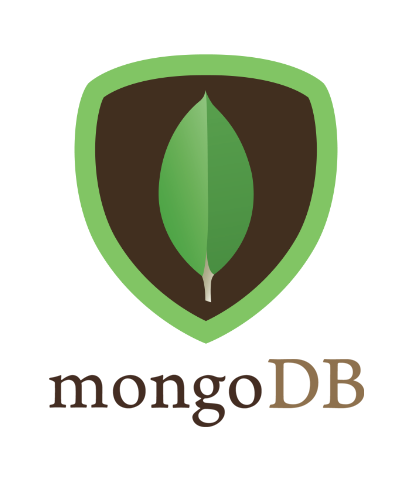
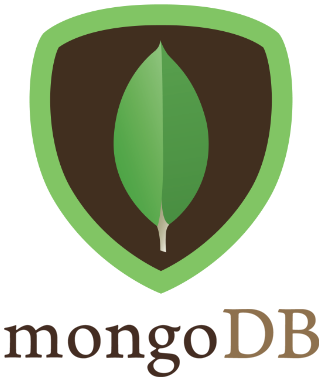
Add message alert

diff --git a/index.html b/index.html
@@ -48,7 +48,7 @@
                         <a class="nav-link" href="#education">Education</a>
                     </li>
                     <li class="nav-item">
-                        <a class="nav-link" href="#certifications">Certifications</a>
+                        <a class="nav-link"  href="#certifications">Certifications </a>
                     </li>
                     <li class="nav-item">
                         <a class="nav-link" href="#connect">Connect</a>
@@ -62,18 +62,18 @@
     <header>
 
         <div class="wave">
-            <div class="container header-container"><br>
+            <div class="container header-container"><br><br><br>
                 <h1 class="name">Lydia Delgado Uriarte</h1>
                 
             <h3 class="mb-0">
                 Web Developer - Data Analyst - Software Developer
-            </h3><br><br><br>
+            </h3><br><br><br><br><br><br>
                <!--<h3 class="subtitle text-center">Building beautiful applications that just work.</h3>--> 
                 <!-- <img src="assets/images/student.png" class="boy" alt="boy image" /> -->
             </div>
         </div>
         <div class="wave-svg">
-            <svg xmlns="http://www.w3.org/2000/svg" fill="#fff" opacity="1" width="100%" height="80"
+            <svg xmlns="http://www.w3.org/2000/svg" fill="#fff" opacity="1" width="100%" height="90"
                 preserveAspectRatio="none" viewBox="0 0 1600 200" margin="0">
                 <path d="M-8,95.3C-8,95.3,189,2,398,2s604,184.7,800,184.7s412-91.4,412-91.4V271H-8V95.3z" />
                 <path
@@ -89,7 +89,7 @@
             web
             applications
             built on
-            JavaScript technologies. </h3><br>
+            JavaScript technologies, software developme </h3><br>
     </section>
 
     
@@ -154,6 +154,7 @@
                             <img src="assets/images/portfolio/googlemapsapi.png" width="100px" height="100px" >
                             <p>Google Maps API</p>
                         </div>
+                        <br>
                     </div>
                     <div class="col">
                         <div class="skill-bar-title">
@@ -163,16 +164,17 @@
                     </div>
                     <div class="col">
                         <div class="skill-bar-title">
-                            <img src="assets/images/portfolio/aws.png" width="120px" height="90px" >
-                            <p>Amazon Web Services</p>
-                        </div>
-                    </div>
-                    <div class="col">
-                        <div class="skill-bar-title">
                             <img src="assets/images/portfolio/flask.jpg" width="100px" height="100px" >
                             <p>Flask</p>
                         </div>
                         
+                    </div>
+                    <div class="col">
+                        <div class="skill-bar-title">
+                    
+                            <img src="assets/images/portfolio/kotlin.png" width="120px" height="100px" class="responsive" >
+                            
+                        </div>
                     </div>
                 </div>
             </div>
@@ -184,33 +186,38 @@
                 <div class="row text-center">
                     <div class="col">
                         <div class="skill-bar-title">
-                            <img src="assets/images/portfolio/pandas.png" width="130px" height="90px" >
-                            
+                            <img src="assets/images/portfolio/pandas.png" width="120px" height="90px" class="responsive">
+                            <br>
                         </div>
                     </div>
                 
                     <div class="col">
                         <div class="skill-bar-title">
-                            <img src="assets/images/portfolio/mongodb.png" width="60%" height="60%" >
-                            
+                            <img src="assets/images/portfolio/mongodb.png" width="100px" height="100px" class="responsive">
+                            <br>
                         </div>
+                        <br>
+                        <br>
                     </div>
                         
                     <div class="col">
                         <div class="skill-bar-title">
                             <img src="assets/images/portfolio/R.jpeg" width="85px" height="85px" >
+                            <br>
                         </div>
                     </div>
                     <div class="col">
                         <div class="skill-bar-title"><br>
                             <i class="fab fa-git fa-4x"></i>
+                            <br>
+                            <br>
                         </div>
                         
                     </div>
                     <div class="col">
                         <div class="skill-bar-title">
-                            <br>
-                            <img src="assets/images/portfolio/Mysql.png" width="100%" height="100%" >
+                            
+                            <img src="assets/images/portfolio/Mysql.png" width="120px" height="90px" class="responsive">
                         </div>
                         
                     </div>
@@ -239,8 +246,9 @@
                 <img src="assets/images/myself.jpg" alt="Italian Trulli" class="myself" width="80%" height="80%">
 
                 <h3 class="card-title">More about Me</h3>
-                <p class="card-text"> Data Analyst with eager of experience interested to acquire knowledge through
-                    different technologies and retrieve data prominent information with recommended tools such as Python,
+                <p class="card-text"> Data Analyst with eager of experience interested to acquire knowledge in new technologies and
+                    be capable of being an expert in the ones I use.
+                    Retrieve prominent data and software development with recommended tools such as Python,
                     Tableau, MySQL, Pandas, etc. Equipped with various tech skills with
                     a completed certificate in Data Analytics and Visualizations Bootcamp from Tecnologico de Monterrey. </p>
             
@@ -350,91 +358,114 @@
 <br><br><br>
                 </div>
             </div>
+        <div id="education"></div>
         </div>
     </div>
 
 
     <!-- EDUCATION -->
         
-    <div id="education"></div>
-    <section class="container education-container">
+    <section class="container">
         
         <h1 class="title">Education </h1>
+        <a href="https://drive.google.com/file/d/1LqIPOTHvaPAzXEaiFd1CcYCCcOZNvi6z/view?usp=sharing" target="_blank" >
         <article class="education-item">
-            <h3 class="subtitle">Instituto Tecnologico de Estudios Superiores de Monterrey &nbsp;&nbsp;&nbsp;&nbsp;<a href="https://drive.google.com/file/d/1LqIPOTHvaPAzXEaiFd1CcYCCcOZNvi6z/view?usp=sharing" target="_blank" >
-                <img src="assets/images/portfolio/tec_mty.jpg" height="20%" width="20%"></a></h3> 
+            <h3 class="subtitle">Instituto Tecnologico de Estudios Superiores de Monterrey &nbsp;&nbsp;&nbsp;&nbsp;
+                <img src="assets/images/portfolio/tec_mty.jpg" height="25%" width="25%" class="responsive"></h3> 
             <span class="text-muted">B.S in Computer Science and Technology | Aug 2020 - Present </span>
-        </article>
+        </article></a>
+
         <hr />
+        <a href="https://drive.google.com/file/d/1vF6PZ9jwpckFZaa9s7vGvh5O8PKYAVQv/view" target="_blank" >
         <article class="education-item">
-            <h3 class="subtitle"> Instituto Tecnologico de Estudios Superiores de Monterrey &nbsp;&nbsp;&nbsp;&nbsp;<a href="https://drive.google.com/file/d/1vF6PZ9jwpckFZaa9s7vGvh5O8PKYAVQv/view" target="_blank" >
-                <img src="assets/images/portfolio/tec_mty.jpg" height="20%" width="20%"></a></h3> 
-            <span class="text-muted">Highschool  | Aug 2020 - Present </span>
-            <div id="certifications"></div>
-        </article>
+            <h3 class="subtitle"> Instituto Tecnologico de Estudios Superiores de Monterrey &nbsp;&nbsp;
+                <img src="assets/images/portfolio/tec_mty.jpg" height="25%" width="25%" class="responsive"></h3> 
+            <div id="certifications"></div><span class="text-muted">Highschool  | Aug 2020 - Present <br><br><br><br></span>
+        
+        </article></a>
 
     </section>
 
     <!-- CERTIFICATIONS -->
-    <div id="certifications"></div>
+    
     <section class="container">
-        <h1 class="title">Certifications </h1>
+        <h1 class="title">Certifications &nbsp; &nbsp;<span onclick="myalert()" style="font-size: 30px; cursor: pointer;">&#9432;</span></h1>
+    
+
+        <a href="https://www.credential.net/d81e359b-5599-4803-91f4-12b5c8523c34#gs.7seg2z" target="_blank" >
         <article class="education-item">
-            <h3 class="subtitle">Data Analytics and Visualization Bootcamp  &nbsp;&nbsp;&nbsp;&nbsp; &nbsp;<a href="https://www.credential.net/d81e359b-5599-4803-91f4-12b5c8523c34#gs.7seg2z" target="_blank" >
-                <img src="assets/images/portfolio/tec_mty.jpg" height="20%" width="20%"></a></h3> 
+            <h3 class="subtitle">Data Analytics and Visualization Bootcamp  &nbsp;&nbsp;&nbsp;&nbsp; &nbsp;
+                <img src="assets/images/portfolio/tec_mty.jpg" height="25%" width="25%" class="responsive"></h3> 
             <span class="text-muted">24-week Bootcamp from Tecnológico de Monterrey | Dec 2021 - Jun 2022 </span>
-        </article>
+        </article></a>
+
         <hr />
         
+        <a href="https://verify.skilljar.com/c/dn8ipttubcci" target="_blank" >
         <article class="education-item">
-            <h3 class="subtitle">Data Science with Tableau&nbsp; &nbsp;<a href="https://verify.skilljar.com/c/dn8ipttubcci" target="_blank" >
-                <img src="assets/images/portfolio/tabl.png" height="20%" width="20%"></a></h3> 
+            <h3 class="subtitle">Data Science with Tableau&nbsp; &nbsp;
+                <img src="assets/images/portfolio/tabl.png" height="40px" width="180px" class="responsive"></h3> 
             <span class="text-muted"> Sep 2021 </span>
-        </article>
+        </article></a>
+        
         <hr />
         
+        <a href="https://verify.skilljar.com/c/ruoq7tbs5gej" target="_blank" >
         <article class="education-item">
-            <h3 class="subtitle">Build Visualizations and Dashboards&nbsp; &nbsp;<a href="https://verify.skilljar.com/c/ruoq7tbs5gej" target="_blank" >
-                <img src="assets/images/portfolio/tabl.png" height="20%" width="20%"></a></h3> 
+            <h3 class="subtitle">Build Visualizations and Dashboards&nbsp; &nbsp;
+                <img src="assets/images/portfolio/tabl.png" height="40px" width="180px" class="responsive"></h3> 
             <span class="text-muted"> Sep 2021 </span>
-        </article>
+        </article></a>
+
         <hr />
+
+        <a href="https://verify.skilljar.com/c/yuiigf22h4hq" target="_blank" >
         <article class="education-item">
-            <h3 class="subtitle">Exploring Developer Resources&nbsp; &nbsp;<a href="https://verify.skilljar.com/c/yuiigf22h4hq" target="_blank" >
-                <img src="assets/images/portfolio/tabl.png" height="20%" width="20%"></a></h3> 
+            <h3 class="subtitle">Exploring Developer Resources&nbsp; &nbsp;
+                <img src="assets/images/portfolio/tabl.png" height="40px" width="180px" class="responsive"></h3> 
             <span class="text-muted"> Sep 2021 </span>
-        </article>
+        </article></a>
+        
         <hr />
+
+        <a href="https://verify.skilljar.com/c/98xg7t5efshd" target="_blank" >
         <article class="education-item">
-            <h3 class="subtitle">Tableau Prep Builder &nbsp;<a href="https://verify.skilljar.com/c/98xg7t5efshd" target="_blank" >
-                <img src="assets/images/portfolio/tabl.png" height="20%" width="20%"></a></h3> 
+            <h3 class="subtitle">Tableau Prep Builder &nbsp;
+                <img src="assets/images/portfolio/tabl.png" height="40px" width="180px" class="responsive"></h3> 
             <span class="text-muted"> Sep 2021 </span>
-        </article>
+        </article></a>
+
         <hr />
+        <a href="https://verify.skilljar.com/c/j4q5bg5ab3j6" target="_blank" >
         <article class="education-item">
-            <h3 class="subtitle">Tableau Desktop III: Advanced Level &nbsp; &nbsp;<a href="https://verify.skilljar.com/c/j4q5bg5ab3j6" target="_blank" >
-                <img src="assets/images/portfolio/tabl.png" height="20%" width="20%"></a></h3> 
+            <h3 class="subtitle">Tableau Desktop III: Advanced Level &nbsp;
+                <img src="assets/images/portfolio/tabl.png" height="40px" width="180px" class="responsive"></h3> 
             <span class="text-muted"> Sep 2021 </span>
-        </article>
+        </article></a>
+
         <hr />
+        <a href="https://verify.skilljar.com/c/fwxg5hg45phe" target="_blank" >
         <article class="education-item">
-            <h3 class="subtitle" >Tableau Desktop II: Intermediate Level&nbsp; &nbsp;<a href="https://verify.skilljar.com/c/fwxg5hg45phe" target="_blank" >
-                <img src="assets/images/portfolio/tabl.png" height="20%" width="20%"></a></h3> 
+            <h3 class="subtitle" >Tableau Desktop II: Intermediate Level&nbsp; &nbsp;
+                <img src="assets/images/portfolio/tabl.png" height="40px" width="180px" class="responsive"></h3> 
             <span class="text-muted"> Sep 2021 </span>
-        </article>
+        </article></a>
+
         <hr />
+        <a href="https://verify.skilljar.com/c/d57ndkug66u9" target="_blank" >
         <article class="education-item">
-            <h3 class="subtitle">Tableau Desktop I: Basic Aspects &nbsp; &nbsp;<a href="https://verify.skilljar.com/c/d57ndkug66u9" target="_blank" >
-                <img src="assets/images/portfolio/tabl.png" height="20%" width="20%"></a></h3> 
+            <h3 class="subtitle">Tableau Desktop I: Basic Aspects &nbsp; &nbsp;
+                <img src="assets/images/portfolio/tabl.png" height="40px" width="180px" class="responsive"></h3> 
             <span class="text-muted"> Aug 2021 </span>
-        </article>
+        </article></a>
         <hr/>
-        
+
+        <a href="https://drive.google.com/file/d/1n01eIxS19NOeL616vPDqZwrnP_KUUkFk/view?usp=sharing" target="_blank" >
         <article class="education-item">
                 <div class="row">
                     <div class="col-5">
                         <h3 class="subtitle">Basic Concepts of Computer Science &nbsp; &nbsp;
-                            <a href="https://drive.google.com/file/d/1n01eIxS19NOeL616vPDqZwrnP_KUUkFk/view?usp=sharing" target="_blank" ></h3> 
+                           </h3> 
                         <span class="text-muted"> Jun 2020 - Jul 2020</span> 
                     </div>
                     <div class="col">
@@ -442,14 +473,14 @@
                             
                         </div>
                         <div class="row">
-                            <img src="assets/images/portfolio/code.png" height="80%" width="30%"></a>
+                            <img src="assets/images/portfolio/code.png" height="100px" width="100px" class="responsive">
                         </div>
                     </div>
                     <div class="col">
                         
                     </div>
                 </div>
-        </article>
+        </article></a>
     </section>
 
     <!-- AVAILABLE FOR WORK -->

diff --git a/assets/js/app.js b/assets/js/app.js
@@ -8,3 +8,9 @@ function showImgContent(e) {
 };
 
 document.addEventListener('mousemove', showImgContent);
+
+function myalert() {
+    alert("Check the certifications!\n " +
+        "Feel free to click on each certification " +
+                 "for more information");
+}
